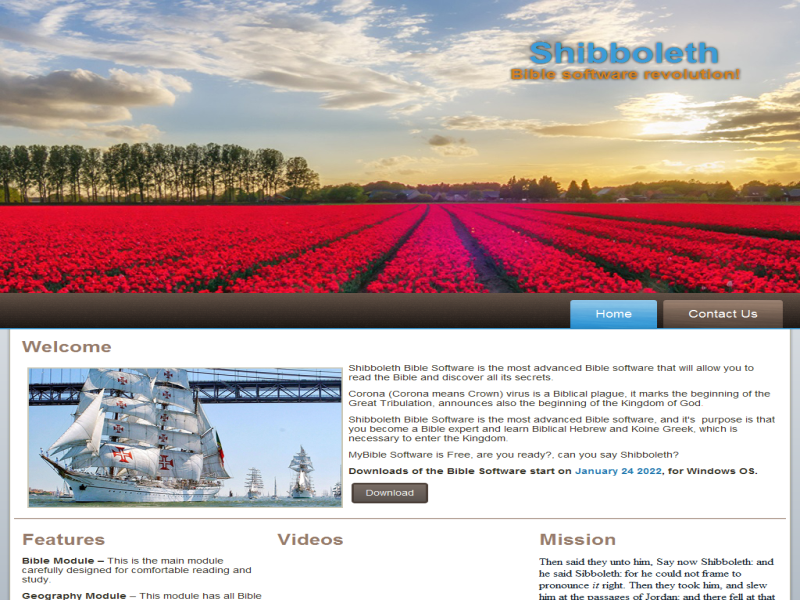
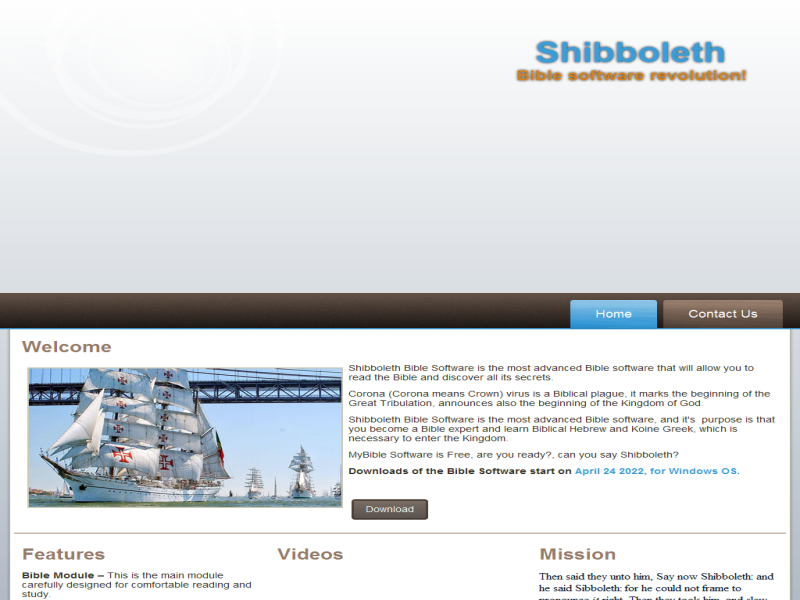
5

diff --git a/index.html b/index.html
@@ -353,10 +353,10 @@ height: 10px;
     <div class="art-content-layout-row">
     <div class="art-layout-cell layout-item-1" style="width: 100%" >
         <h3>Welcome</h3>
-        <p><img style="float: left; margin-top: 7px; margin-right: 7px; margin-bottom: 7px; margin-left: 7px; border-top-style: solid; border-right-style: solid; border-bottom-style: solid; border-left-style: solid; border-top-color: rgb(202, 199, 180); border-right-color: rgb(202, 199, 180); border-bottom-color: rgb(202, 199, 180); border-left-color: rgb(202, 199, 180); border-top-width: 2px; border-right-width: 2px; border-bottom-width: 2px; border-left-width: 2px; " width="400" height="236" alt="" class="art-lightbox" src="images/24a97328-77b2-47aa-8dc5-d552c528ea3d.png">
+        <p><img style="float: left; border-top-style: solid; border-right-style: solid; border-bottom-style: solid; border-left-style: solid; border-top-color: rgb(202, 199, 180); border-right-color: rgb(202, 199, 180); border-bottom-color: rgb(202, 199, 180); border-left-color: rgb(202, 199, 180); border-top-width: 2px; border-right-width: 2px; border-bottom-width: 2px; border-left-width: 2px; " width="400" height="236" alt="" class="art-lightbox" src="images/24a97328-77b2-47aa-8dc5-d552c528ea3d.png">
         </p><p>
         </p><p>
-        </p><p>Shibboleth Bible Software is the most advanced Bible software that will allow you to read the Bible and discover all its secrets.</p><p>Corona (Corona means Crown) virus is a Biblical plague, it&nbsp;marks the beginning of the Great Tribulation, announces also the beginning of the Kingdom of God<span style="color: rgb(226, 52, 29);">.</span></p><p>Shibboleth Bible Software is the most advanced Bible software, and it's &nbsp;purpose is that you become a Bible expert and learn Biblical Hebrew and Koine Greek, which is necessary to enter the Kingdom.<br></p><p>MyBible Software is Free, are you ready?, can you say Shibboleth?</p><p><span style="font-weight: bold;">Downloads of the Bible Software start on</span>&nbsp;<span style="font-weight: bold; color: #2379AF;">January</span><span style="font-weight: bold; color: #2379AF;">&nbsp;24</span><span style="font-weight: bold;"><span style="color: #2379AF;">&nbsp;2022</span>, for Windows OS.</span><br></p>
+        </p><p style="font-weight: 400; background-color: rgb(255, 255, 255);">Shibboleth Bible Software is the most advanced Bible software that will allow you to read the Bible and discover all its secrets.</p><p style="font-weight: 400; background-color: rgb(255, 255, 255);">Corona (Corona means Crown) virus is a Biblical plague, it&nbsp;marks the beginning of the Great Tribulation, announces also the beginning of the Kingdom of God<span style="color: rgb(226, 52, 29);">.</span></p><p style="font-weight: 400; background-color: rgb(255, 255, 255);">Shibboleth Bible Software is the most advanced Bible software, and it's &nbsp;purpose is that you become a Bible expert and learn Biblical Hebrew and Koine Greek, which is necessary to enter the Kingdom.<br></p><p style="font-weight: 400; background-color: rgb(255, 255, 255);">MyBible Software is Free, are you ready?, can you say Shibboleth?</p><p style="background-color: rgb(255, 255, 255);"><span style="font-weight: 400;"><span style="font-weight: bold;">Downloads of the Bible Software start on</span>&nbsp;</span><span style="font-weight: bold; color: #379AD7;">April<span style="color: #379AD7;">&nbsp;24</span><span style="color: #379AD7;">&nbsp;2022</span>, for Windows OS.</span></p><p><span style="font-weight: bold;"></span></p><p><span style="font-weight: bold; color: #2379AF;"></span><br></p>
         <p>&nbsp;<a href="#" class="art-button">Download</a>&nbsp;</p>
     </div>
     </div>
@@ -415,6 +415,10 @@ height: 10px;
     </div>
 
         
+         
+         
+         
+         
          
          
          

diff --git a/software.html b/software.html
@@ -353,10 +353,10 @@ height: 10px;
     <div class="art-content-layout-row">
     <div class="art-layout-cell layout-item-1" style="width: 100%" >
         <h3>Welcome</h3>
-        <p><img style="float: left; margin-top: 7px; margin-right: 7px; margin-bottom: 7px; margin-left: 7px; border-top-style: solid; border-right-style: solid; border-bottom-style: solid; border-left-style: solid; border-top-color: rgb(202, 199, 180); border-right-color: rgb(202, 199, 180); border-bottom-color: rgb(202, 199, 180); border-left-color: rgb(202, 199, 180); border-top-width: 2px; border-right-width: 2px; border-bottom-width: 2px; border-left-width: 2px; " width="400" height="236" alt="" class="art-lightbox" src="images/24a97328-77b2-47aa-8dc5-d552c528ea3d.png">
+        <p><img style="float: left; border-top-style: solid; border-right-style: solid; border-bottom-style: solid; border-left-style: solid; border-top-color: rgb(202, 199, 180); border-right-color: rgb(202, 199, 180); border-bottom-color: rgb(202, 199, 180); border-left-color: rgb(202, 199, 180); border-top-width: 2px; border-right-width: 2px; border-bottom-width: 2px; border-left-width: 2px; " width="400" height="236" alt="" class="art-lightbox" src="images/24a97328-77b2-47aa-8dc5-d552c528ea3d.png">
         </p><p>
         </p><p>
-        </p><p>Shibboleth Bible Software is the most advanced Bible software that will allow you to read the Bible and discover all its secrets.</p><p>Corona (Corona means Crown) virus is a Biblical plague, it&nbsp;marks the beginning of the Great Tribulation, announces also the beginning of the Kingdom of God<span style="color: rgb(226, 52, 29);">.</span></p><p>Shibboleth Bible Software is the most advanced Bible software, and it's &nbsp;purpose is that you become a Bible expert and learn Biblical Hebrew and Koine Greek, which is necessary to enter the Kingdom.<br></p><p>MyBible Software is Free, are you ready?, can you say Shibboleth?</p><p><span style="font-weight: bold;">Downloads of the Bible Software start on</span>&nbsp;<span style="font-weight: bold; color: #2379AF;">January</span><span style="font-weight: bold; color: #2379AF;">&nbsp;24</span><span style="font-weight: bold;"><span style="color: #2379AF;">&nbsp;2022</span>, for Windows OS.</span><br></p>
+        </p><p style="font-weight: 400; background-color: rgb(255, 255, 255);">Shibboleth Bible Software is the most advanced Bible software that will allow you to read the Bible and discover all its secrets.</p><p style="font-weight: 400; background-color: rgb(255, 255, 255);">Corona (Corona means Crown) virus is a Biblical plague, it&nbsp;marks the beginning of the Great Tribulation, announces also the beginning of the Kingdom of God<span style="color: rgb(226, 52, 29);">.</span></p><p style="font-weight: 400; background-color: rgb(255, 255, 255);">Shibboleth Bible Software is the most advanced Bible software, and it's &nbsp;purpose is that you become a Bible expert and learn Biblical Hebrew and Koine Greek, which is necessary to enter the Kingdom.<br></p><p style="font-weight: 400; background-color: rgb(255, 255, 255);">MyBible Software is Free, are you ready?, can you say Shibboleth?</p><p style="background-color: rgb(255, 255, 255);"><span style="font-weight: 400;"><span style="font-weight: bold;">Downloads of the Bible Software start on</span>&nbsp;</span><span style="font-weight: bold; color: #379AD7;">April<span style="color: #379AD7;">&nbsp;24</span><span style="color: #379AD7;">&nbsp;2022</span>, for Windows OS.</span></p><p><span style="font-weight: bold;"></span></p><p><span style="font-weight: bold; color: #2379AF;"></span><br></p>
         <p>&nbsp;<a href="#" class="art-button">Download</a>&nbsp;</p>
     </div>
     </div>
@@ -415,6 +415,10 @@ height: 10px;
     </div>
 
         
+         
+         
+         
+         
          
          
          
